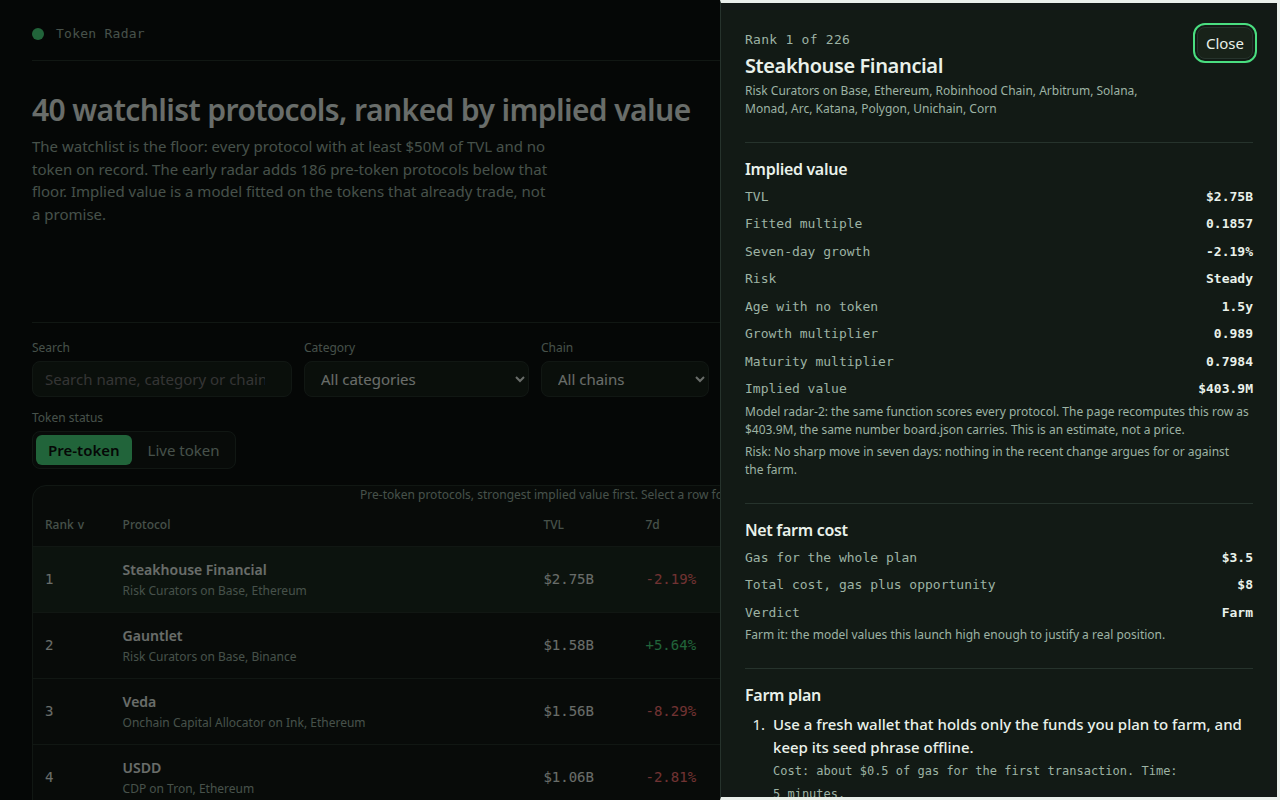
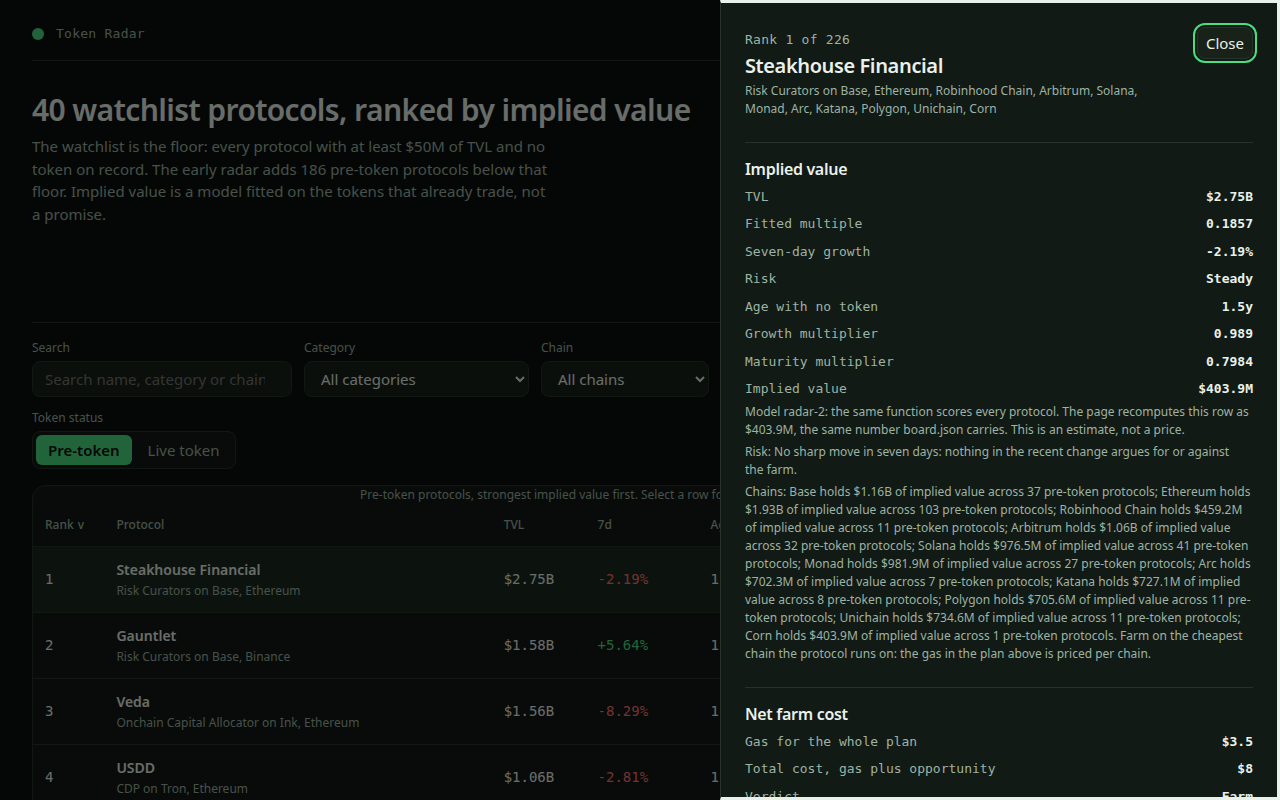
Radar-2: risk column on the board, chain context in the detail view
- The board gains a Risk column (falling / surging / steady chips) next
  to the verdict, so a falling protocol is visible at a glance.
- The detail view names each chain the protocol runs on and what that
  chain holds in implied value, so the farmer sees which chain's gas
  the plan is priced on.
- Risk chip styles in app.css (falling red, surging amber, steady grey).

diff --git a/dashboard/app.js b/dashboard/app.js
@@ -323,7 +323,8 @@
           el('div', { class: 'bar', 'aria-hidden': 'true' }, el('i', { style: 'width:' + Math.max(3, Math.round((r.implied_value_usd / max) * 100)) + '%' })),
           el('span', { class: 'num', text: fmtUsd(r.implied_value_usd) })
         )),
-        el('td', null, el('span', { class: 'verdict ' + r.farm_verdict, text: VERDICT_LABEL[r.farm_verdict] }))
+        el('td', null, el('span', { class: 'verdict ' + r.farm_verdict, text: VERDICT_LABEL[r.farm_verdict] })),
+        el('td', null, el('span', { class: 'risk ' + r.risk, text: RISK_LABEL[r.risk] || r.risk }))
       );
       tbody.appendChild(tr);
     });
@@ -338,7 +339,8 @@
             sortHeader('growth', '7d'),
             sortHeader('age', 'Age'),
             sortHeader('implied', 'Implied value'),
-            el('th', { scope: 'col', text: 'Verdict' })
+            el('th', { scope: 'col', text: 'Verdict' }),
+            el('th', { scope: 'col', text: 'Risk' })
           )),
           tbody
         )
@@ -459,7 +461,12 @@
         el('div', null, el('span', { text: 'Implied value' }), el('b', { class: 'num', text: fmtUsd(row.implied_value_usd) }))
       ),
       el('p', { class: 'sub', text: 'Model ' + DATA.model_version + ': the same function scores every protocol. The page recomputes this row as ' + fmtUsd(recomputed) + (recomputed === row.implied_value_usd ? ', the same number board.json carries.' : ', which differs from the board: the data would be stale.') + ' This is an estimate, not a price.' }),
-      el('p', { class: 'sub', text: 'Risk: ' + (RISK_TEXT[row.risk] || RISK_TEXT.steady) })
+      el('p', { class: 'sub', text: 'Risk: ' + (RISK_TEXT[row.risk] || RISK_TEXT.steady) }),
+      el('p', { class: 'sub', text: 'Chains: ' + (row.chains || []).map(function (c) {
+        var agg = (DATA.chains || []).filter(function (a) { return a.chain === c; })[0];
+        if (!agg) return c;
+        return c + ' holds ' + fmtUsd(agg.total_implied_usd) + ' of implied value across ' + agg.protocols + ' pre-token protocols';
+      }).join('; ') + '. Farm on the cheapest chain the protocol runs on: the gas in the plan above is priced per chain.' })
     ));
     dialog.appendChild(el('section', { class: 'detail-section' },
       el('h3', { text: 'Net farm cost' }),

diff --git a/dashboard/app.css b/dashboard/app.css
@@ -103,6 +103,10 @@ tbody tr[data-selected="true"] { background: #1b2b20; }
 .verdict.farm-small { background: #134e4a; color: #5eead4; }
 .verdict.thin { background: #451a03; color: var(--amber); }
 .verdict.skip { background: #1f2937; color: var(--skip); }
+.risk { display: inline-block; padding: 2px 8px; border-radius: 999px; font-size: 12px; font-weight: 600; white-space: nowrap; }
+.risk.falling { background: #450a0a; color: #fca5a5; }
+.risk.surging { background: #451a03; color: var(--amber); }
+.risk.steady { background: #1f2937; color: var(--muted); }
 .status { display: inline-flex; align-items: center; gap: 6px; color: var(--muted); font-size: 12px; white-space: nowrap; }
 .status::before { content: ""; width: 6px; height: 6px; border-radius: 50%; background: var(--accent); }
 
